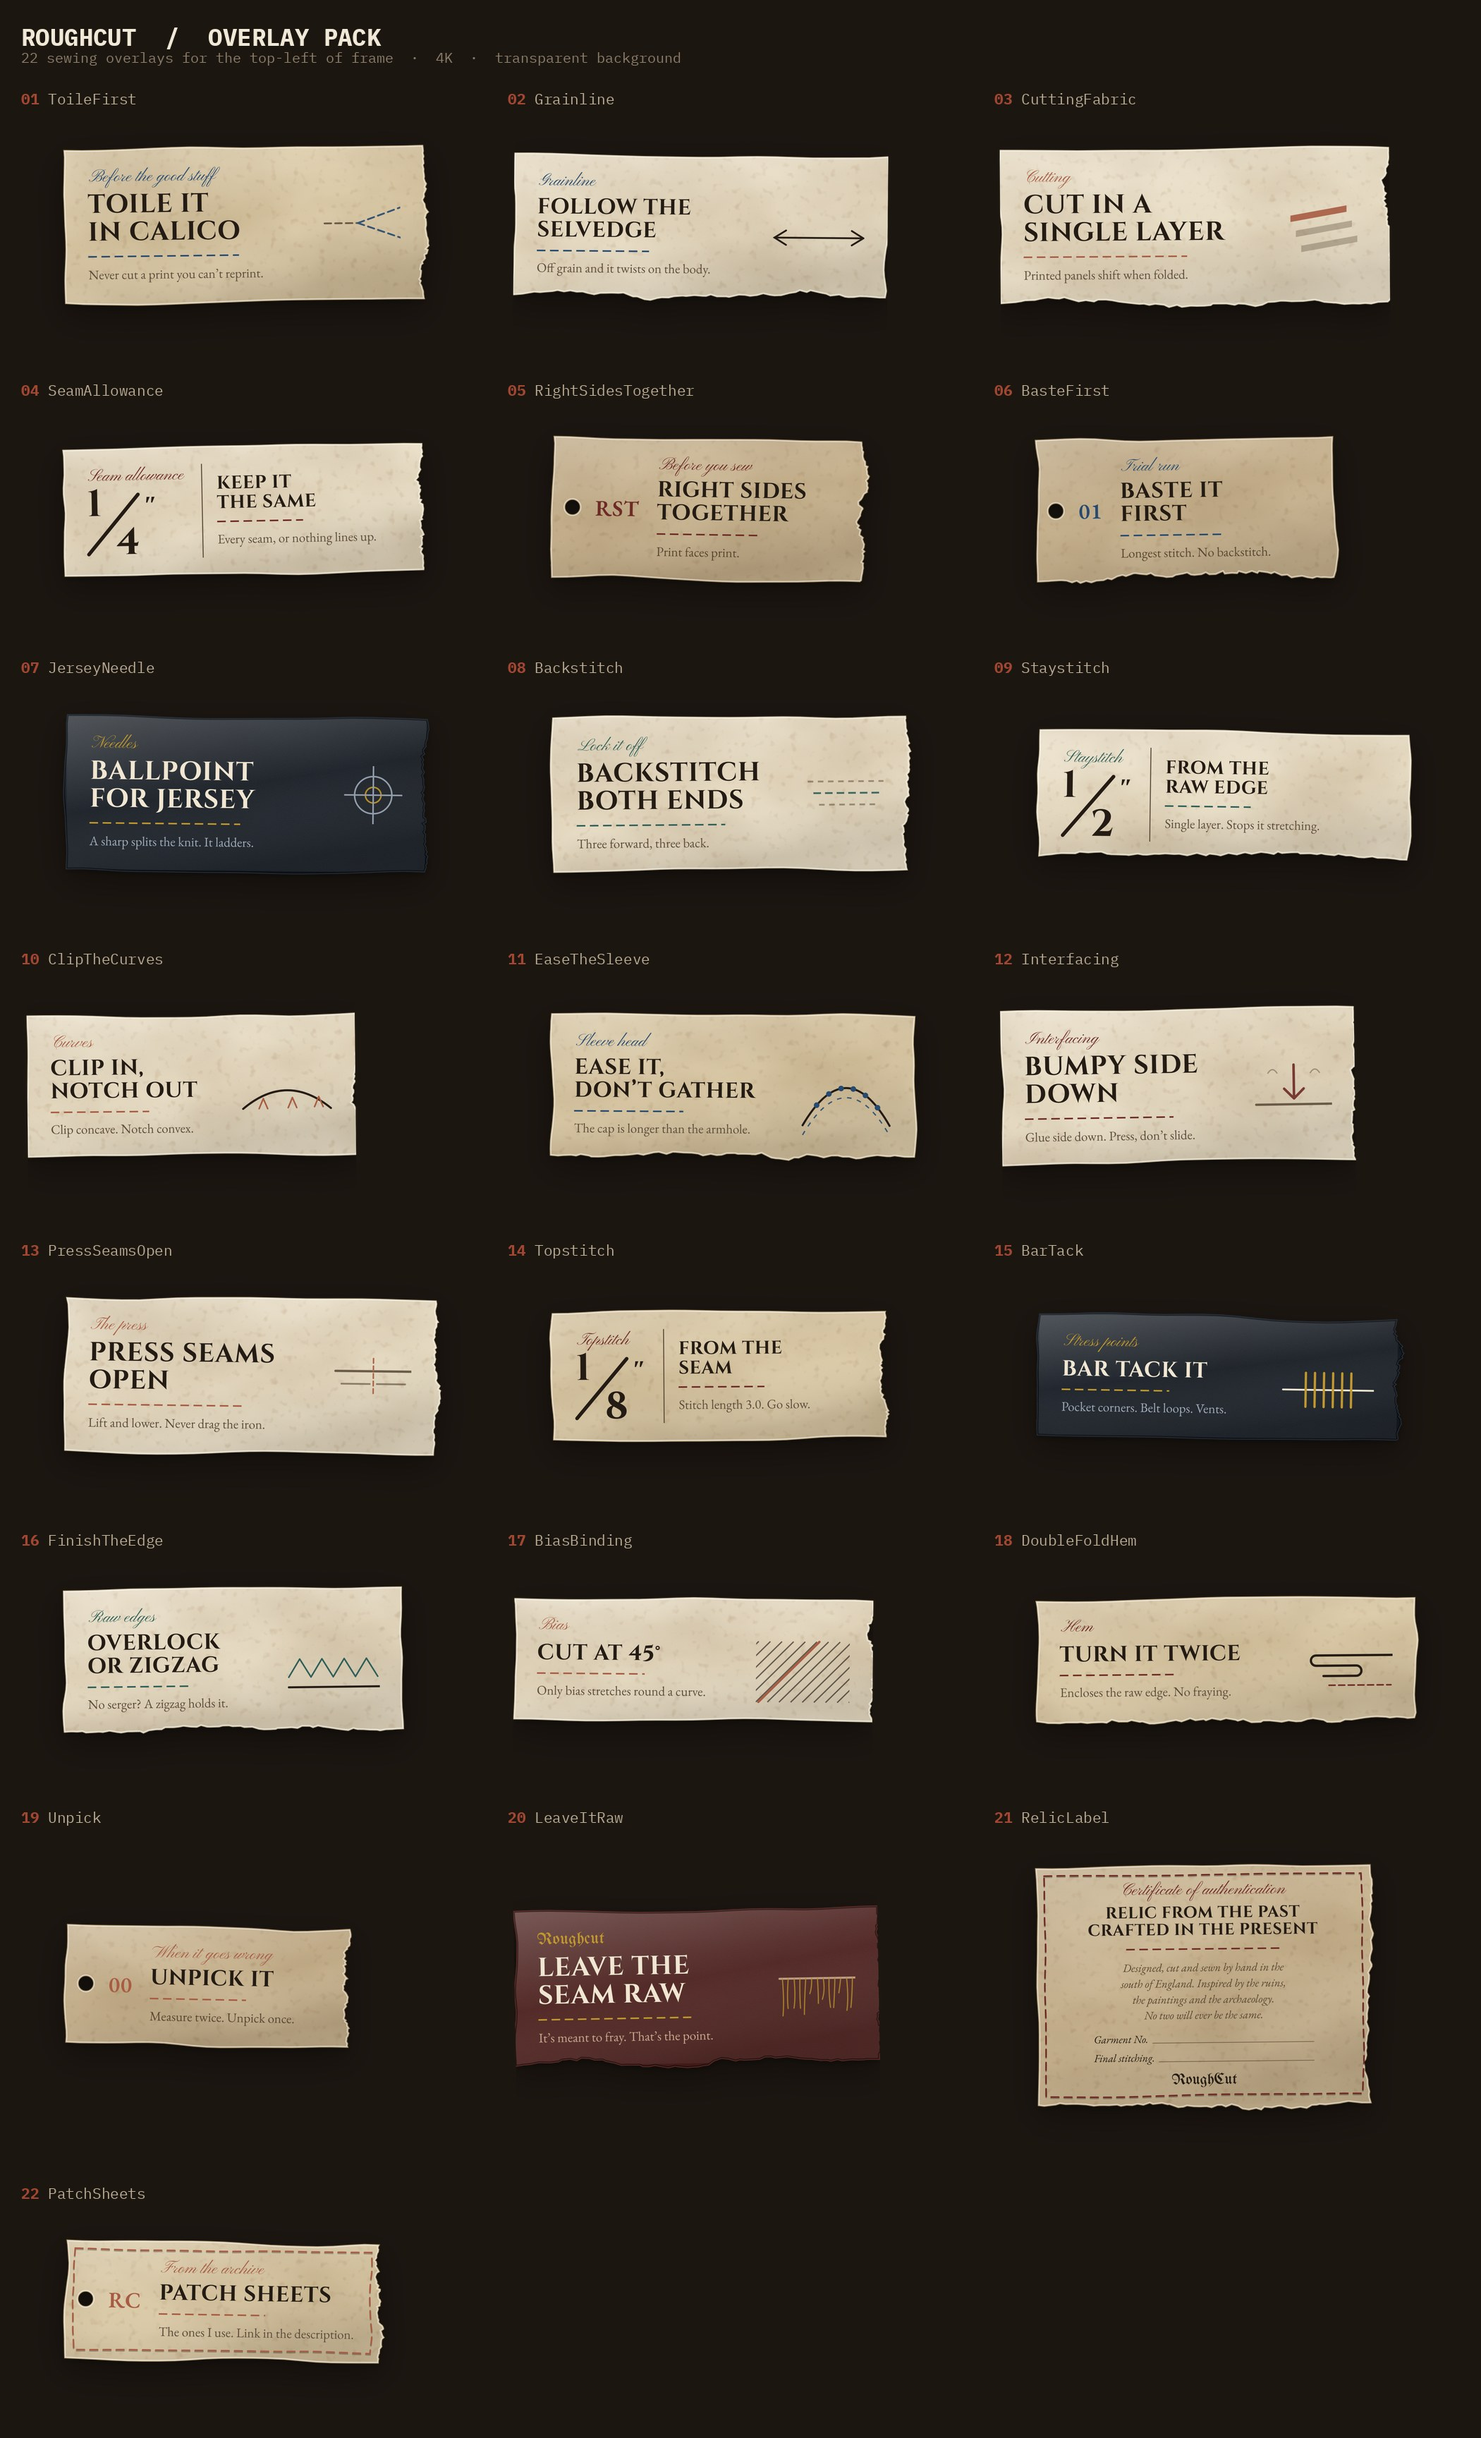
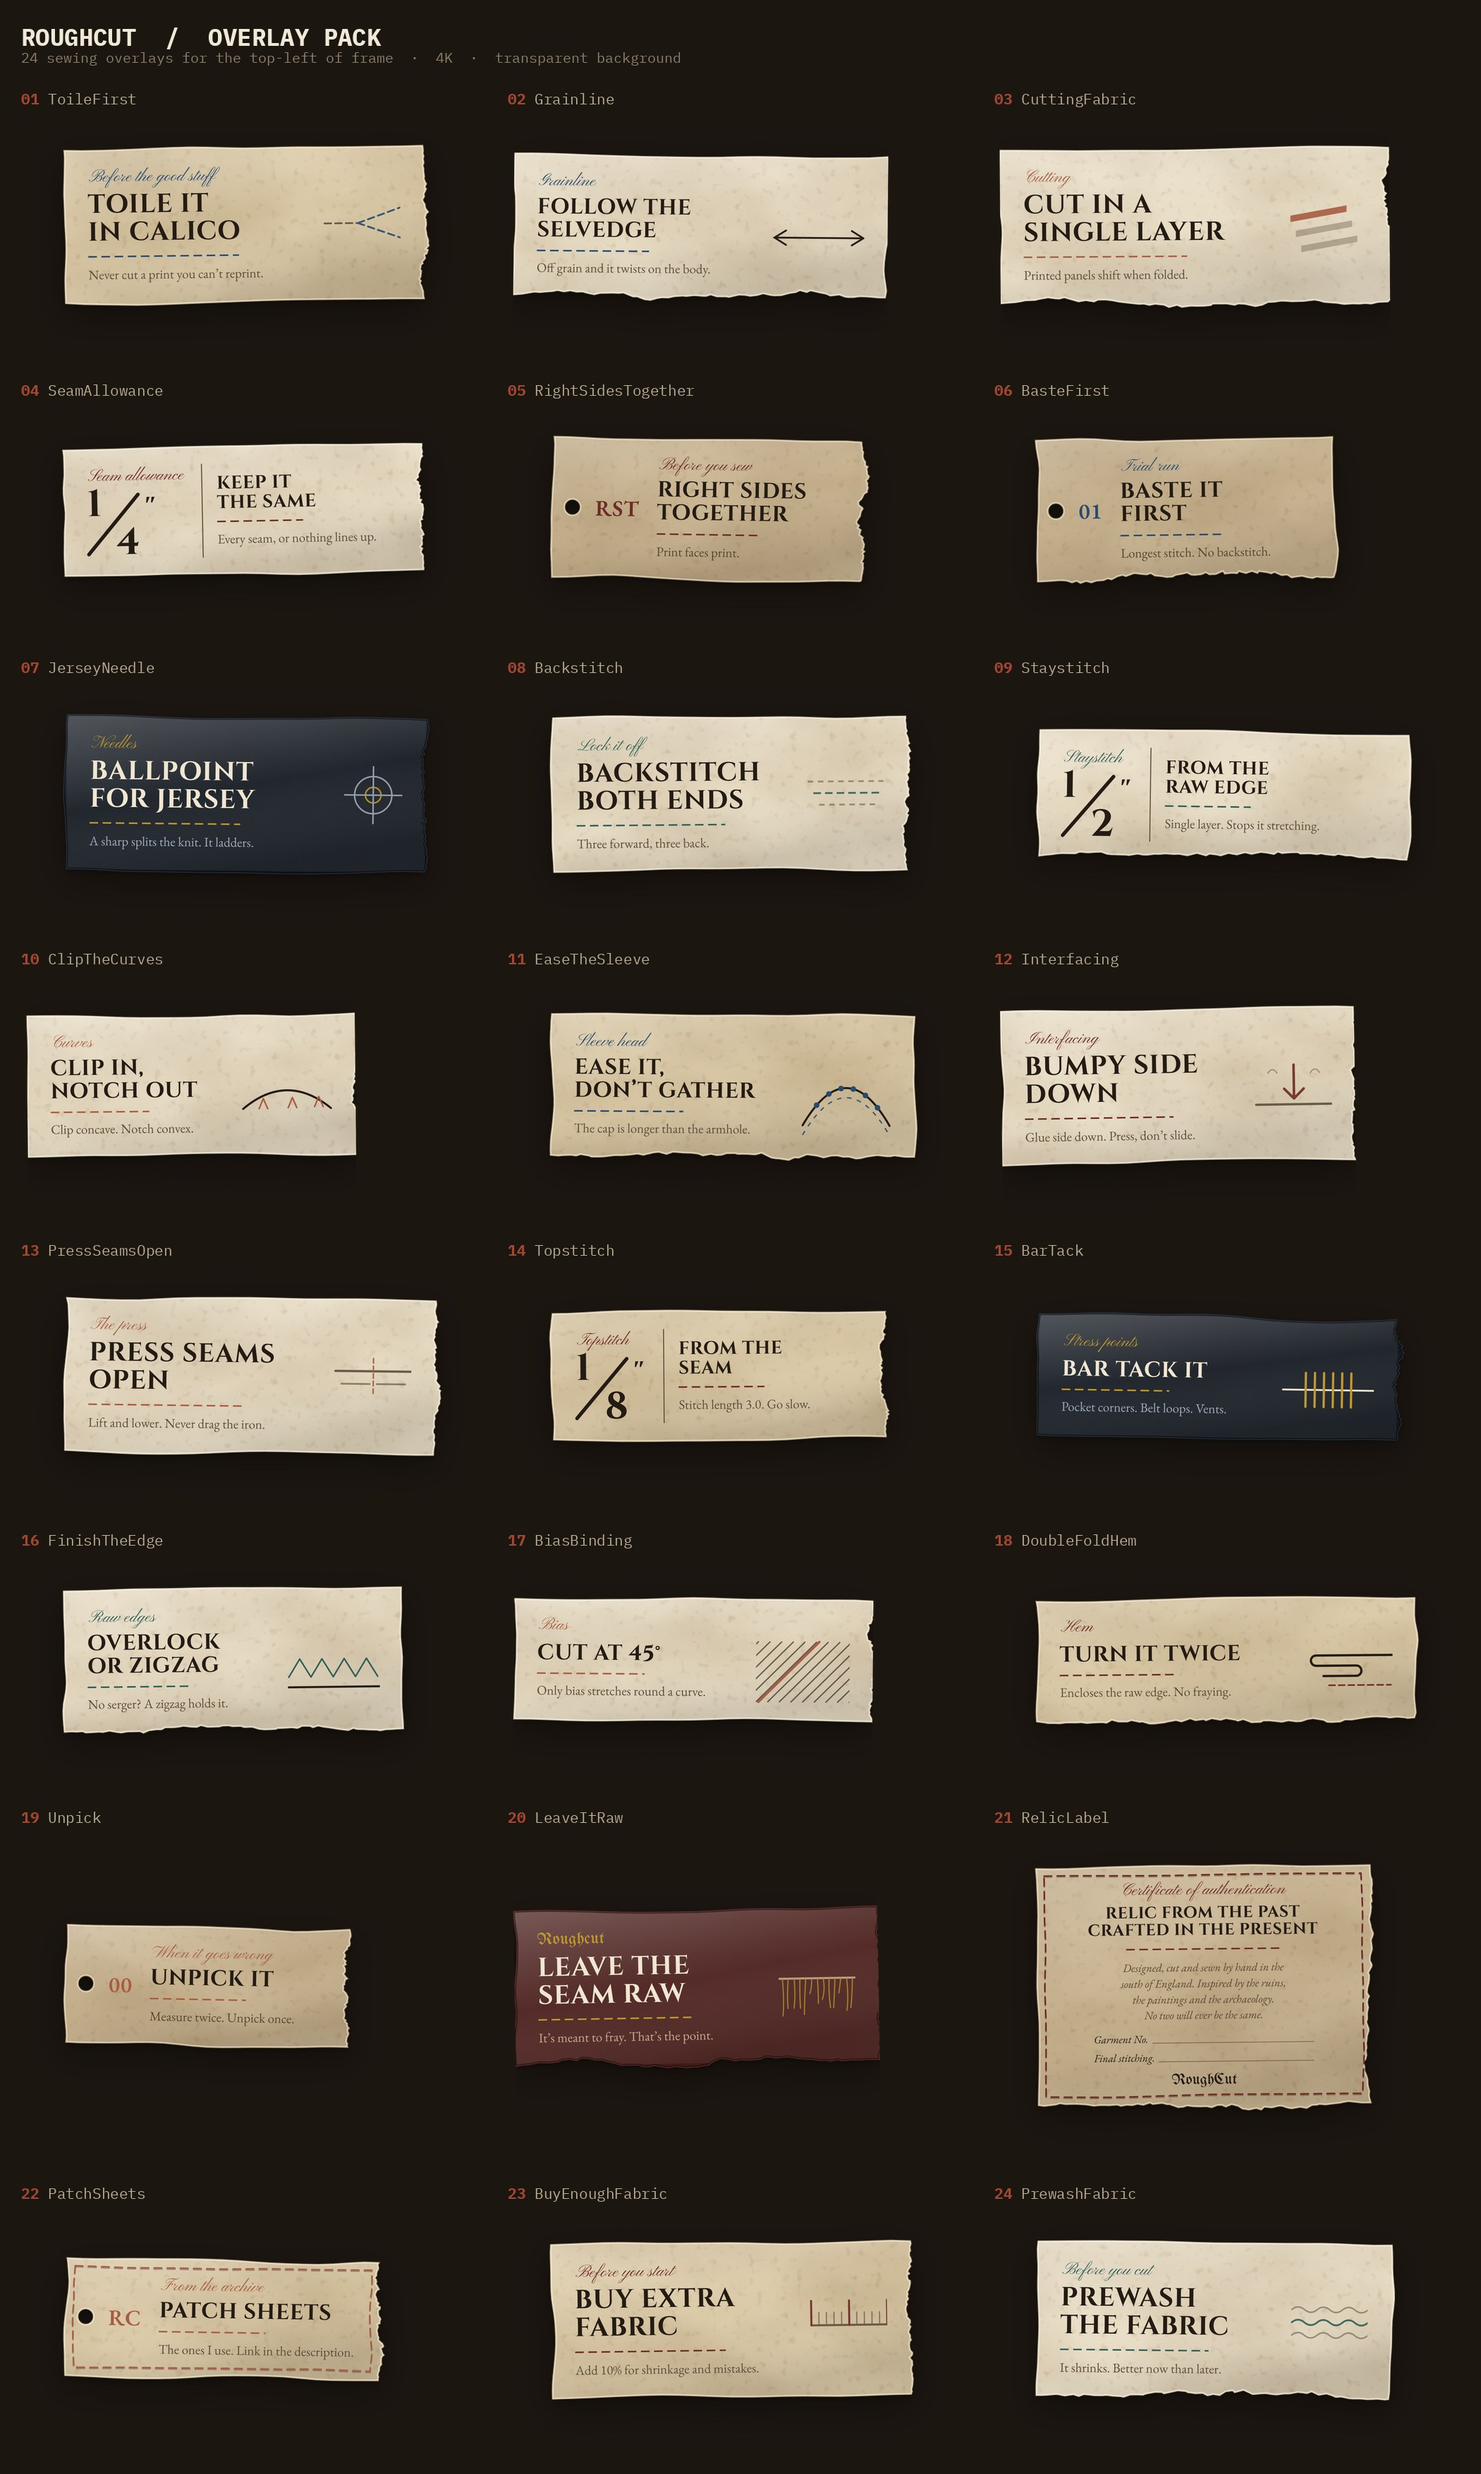
Add fabric-buying and prewash overlays, and a centre cover/uncover transition
Two more tutorial cards, both pre-project advice that belongs before the
first cut: BuyEnoughFabric ("Add 10% for shrinkage and mistakes") and
PrewashFabric ("It shrinks. Better now than later"). Two new marks go
with them - a graduated tape measure and water.

CentreReveal is the fourth transition: it opens from the centre of frame,
covers, then tears apart to uncover, for revealing a finished garment. It
is two sheets throughout rather than one that splits - they grow together,
overlapping at the middle so the torn seam reads as a join rather than a
gap, and then part left and right. Swapping one element for two mid-shot
always shows.

Coverage verified off the rendered alpha rather than by eye: fully opaque
across frames 16-23, so the cut goes on frame 20.

Claude-Session: https://claude.ai/code/session_01Xf1wse7CpfXLLcropSapqk

diff --git a/overlays/src/transitions/Transitions.tsx b/overlays/src/transitions/Transitions.tsx
@@ -119,6 +119,7 @@ export const transitionDefaults: Record<string, TransitionProps> = {
   PaperSweep: {tone: 'vellum', seconds: 0.9},
   PaperStrips: {tone: 'foxed', seconds: 1.2},
   MosaicBuild: {tone: 'parchment', seconds: 1.6},
+  CentreReveal: {tone: 'vellum', seconds: 1.5},
 };
 
 export const toneOf = (t: ToneName) => tones[t];
@@ -209,6 +210,88 @@ export const MosaicBuild: React.FC<TransitionProps> = () => {
       <svg width={WIDTH} height={HEIGHT} style={{position: 'absolute', inset: 0, overflow: 'visible'}}>
         {tiles}
       </svg>
+    </AbsoluteFill>
+  );
+};
+
+/* ------------------------------------------------------------------ */
+
+/**
+ * Opens from the centre of frame, covers, then tears apart to uncover -
+ * for revealing the finished garment.
+ *
+ * It is two sheets throughout, not one that splits: they grow together as a
+ * single sheet (they overlap at the middle, so the torn seam between them
+ * reads as a join rather than a gap), then part left and right. Building it
+ * that way avoids swapping one element for two mid-shot, which always shows.
+ */
+export const CentreReveal: React.FC<TransitionProps> = ({tone}) => {
+  const frame = useCurrentFrame();
+  const {durationInFrames} = useVideoConfig();
+  const t = frame / (durationInFrames - 1);
+
+  const grow = interpolate(t, [0, 0.4], [0.04, 1], {
+    extrapolateRight: 'clamp',
+    easing: Easing.bezier(0.3, 0, 0.15, 1),
+  });
+  const rot = interpolate(t, [0, 0.4], [-9, -1.2], {extrapolateRight: 'clamp'});
+  const part = interpolate(t, [0.58, 1], [0, 1], {
+    extrapolateLeft: 'clamp',
+    easing: Easing.bezier(0.5, 0, 0.6, 1),
+  });
+
+  const halfW = WIDTH * 0.56;
+  const h = HEIGHT * 1.25;
+  const top = (HEIGHT - h) / 2;
+  const OVER = 40;
+
+  return (
+    <AbsoluteFill>
+      <div
+        style={{
+          position: 'absolute',
+          inset: 0,
+          transformOrigin: 'center center',
+          transform: `scale(${grow}) rotate(${rot}deg)`,
+        }}
+      >
+        <div
+          style={{
+            position: 'absolute',
+            left: WIDTH / 2 + OVER - halfW,
+            top,
+            transform: `translateX(${-part * WIDTH * 0.8}px)`,
+          }}
+        >
+          <PaperCard
+            width={halfW}
+            height={h}
+            seed="centre-left"
+            tone={tone}
+            torn={['right']}
+            tornAmp={95}
+            grain={false}
+          />
+        </div>
+        <div
+          style={{
+            position: 'absolute',
+            left: WIDTH / 2 - OVER,
+            top,
+            transform: `translateX(${part * WIDTH * 0.8}px)`,
+          }}
+        >
+          <PaperCard
+            width={halfW}
+            height={h}
+            seed="centre-right"
+            tone={tone}
+            torn={['left']}
+            tornAmp={95}
+            grain={false}
+          />
+        </div>
+      </div>
     </AbsoluteFill>
   );
 };

diff --git a/overlays/src/lib/motifs.tsx b/overlays/src/lib/motifs.tsx
@@ -456,6 +456,73 @@ export const FrayEdge: React.FC<MotifProps> = ({width, height, color, progress, 
   );
 };
 
+
+/** A tape measure: graduated ticks along a rule. */
+export const MeasureRule: React.FC<MotifProps> = ({width, height, color, progress, accent}) => {
+  const id = useSvgId('rule');
+  const y = height * 0.62;
+  const n = 11;
+  return (
+    <svg width={width} height={height} style={{display: 'block', overflow: 'visible'}}>
+      <defs>
+        <clipPath id={id}>
+          <rect x={-10} y={-20} width={width * progress + 10} height={height + 40} />
+        </clipPath>
+      </defs>
+      <g clipPath={`url(#${id})`} strokeLinecap="round">
+        <line x1={0} y1={y} x2={width} y2={y} stroke={color} strokeWidth={8} />
+        {Array.from({length: n}).map((_, i) => {
+          const x = (width / (n - 1)) * i;
+          const major = i % 5 === 0;
+          return (
+            <line
+              key={i}
+              x1={x}
+              y1={y}
+              x2={x}
+              y2={y - height * (major ? 0.42 : 0.22)}
+              stroke={major ? accent ?? color : color}
+              strokeWidth={major ? 8 : 5}
+              opacity={major ? 1 : 0.7}
+            />
+          );
+        })}
+      </g>
+    </svg>
+  );
+};
+
+/** Water: prewashing, before a single cut is made. */
+export const WashWaves: React.FC<MotifProps> = ({width, height, color, progress, accent}) => {
+  const id = useSvgId('wash');
+  const rows = [0, 1, 2];
+  return (
+    <svg width={width} height={height} style={{display: 'block', overflow: 'visible'}}>
+      <defs>
+        <clipPath id={id}>
+          <rect x={-10} y={-20} width={width * progress + 10} height={height + 40} />
+        </clipPath>
+      </defs>
+      <g clipPath={`url(#${id})`} fill="none" strokeLinecap="round">
+        {rows.map((i) => {
+          const y = height * 0.3 + i * height * 0.22;
+          const a = height * 0.09;
+          const w = width / 3;
+          return (
+            <path
+              key={i}
+              d={`M 0 ${y} q ${w / 4} ${-a} ${w / 2} 0 t ${w / 2} 0 t ${w / 2} 0 t ${w / 2} 0 t ${w / 2} 0 t ${w / 2} 0`}
+              stroke={i === 1 ? accent ?? color : color}
+              strokeWidth={i === 1 ? 7 : 6}
+              opacity={i === 1 ? 1 : 0.6}
+            />
+          );
+        })}
+      </g>
+    </svg>
+  );
+};
+
 export const motifs = {
   grainline: GrainlineArrow,
   seamOpen: SeamOpen,
@@ -471,6 +538,8 @@ export const motifs = {
   cutLine: CutLine,
   pressArrow: PressArrow,
   fray: FrayEdge,
+  rule: MeasureRule,
+  wash: WashWaves,
 } as const;
 
 export type MotifName = keyof typeof motifs;

diff --git a/overlays/src/overlays/specs.ts b/overlays/src/overlays/specs.ts
@@ -402,4 +402,36 @@ export const specs: OverlaySpec[] = [
     height: 470,
     restAngle: 0.9,
   },
+  {
+    id: 'BuyEnoughFabric',
+    file: '23-buy-enough-fabric',
+    layout: 'instruction',
+    eyebrow: 'Before you start',
+    headline: ['Buy extra', 'fabric'],
+    note: 'Add 10% for shrinkage and mistakes.',
+    motif: 'rule',
+    tone: 'foxed',
+    accent: palette.bole,
+    anim: 'slide',
+    torn: ['right'],
+    width: 1420,
+    height: 610,
+    restAngle: -0.8,
+  },
+  {
+    id: 'PrewashFabric',
+    file: '24-prewash-fabric',
+    layout: 'instruction',
+    eyebrow: 'Before you cut',
+    headline: ['Prewash', 'the fabric'],
+    note: 'It shrinks. Better now than later.',
+    motif: 'wash',
+    tone: 'vellum',
+    accent: palette.verdigris,
+    anim: 'drop',
+    torn: ['bottom'],
+    width: 1400,
+    height: 610,
+    restAngle: 0.6,
+  },
 ];

diff --git a/overlays/src/Root.tsx b/overlays/src/Root.tsx
@@ -14,6 +14,7 @@ import {
   PaperSweep,
   PaperStrips,
   MosaicBuild,
+  CentreReveal,
   transitionDefaults,
   transitionSchema,
   type TransitionProps,
@@ -46,6 +47,7 @@ export const RemotionRoot: React.FC = () => (
         ['PaperSweep', PaperSweep],
         ['PaperStrips', PaperStrips],
         ['MosaicBuild', MosaicBuild],
+        ['CentreReveal', CentreReveal],
       ] as const
     ).map(([id, component]) => (
       <Composition

diff --git a/overlays/README.md b/overlays/README.md
@@ -1,6 +1,6 @@
 # Roughcut overlay pack
 
-Twenty-two animated sewing overlays and three paper transitions for 4K YouTube
+Twenty-four animated sewing overlays and four paper transitions for 4K YouTube
 videos, built with [Remotion](https://remotion.dev). Everything renders at
 3840x2160 with a **transparent background**, so you drop a clip on the track
 above your footage and it sits there.
@@ -73,7 +73,7 @@ npm run studio       # opens the visual editor at localhost:3000
 The Studio is where you preview, scrub and retype. To export:
 
 ```bash
-npm run render                      # all 25, ProRes 4444 with alpha (.mov)
+npm run render                      # all 28, ProRes 4444 with alpha (.mov)
 npm run render -- SeamAllowance     # just one
 npm run render -- --webm            # VP9 + alpha instead - a tenth the size
 npm run render -- --force           # re-render files that already exist
@@ -126,6 +126,8 @@ Ordered the way you actually hit them making a garment.
 | 20 | `LeaveItRaw` | Leave the seam raw | oxblood | cut |
 | 21 | `RelicLabel` | Certificate of authentication | parchment | unfold |
 | 22 | `PatchSheets` | Patch sheets — link in the description | foxed | drop |
+| 23 | `BuyEnoughFabric` | Buy extra fabric | foxed | slide |
+| 24 | `PrewashFabric` | Prewash the fabric | vellum | drop |
 
 Each is 4.33 seconds by default: about 0.9s in, 2.8s holding, 0.7s out.
 
@@ -156,6 +158,13 @@ Full-frame paper wipes with alpha. Put the transition on the track above and
 | `PaperSweep` | 27 frames (0.9s) | frames 9–16 | **frame 13** |
 | `PaperStrips` | 36 frames (1.2s) | frames 12–25 | **frame 19** |
 | `MosaicBuild` | 48 frames (1.6s) | frames 20–29 | **frame 25** |
+| `CentreReveal` | 45 frames (1.5s) | frames 16–23 | **frame 20** |
+
+`CentreReveal` opens from the centre of frame, covers, then tears apart to
+uncover — for revealing a finished garment. It is two sheets throughout rather
+than one that splits: they grow together (overlapping at the middle, so the
+torn seam reads as a join rather than a gap) and then part. Swapping one
+element for two mid-shot always shows.
 
 `MosaicBuild` is the mosaic note from the board: 390 tesserae fly in, settle
 into a gold ground, hold, then scatter. All of them live in one SVG — giving
